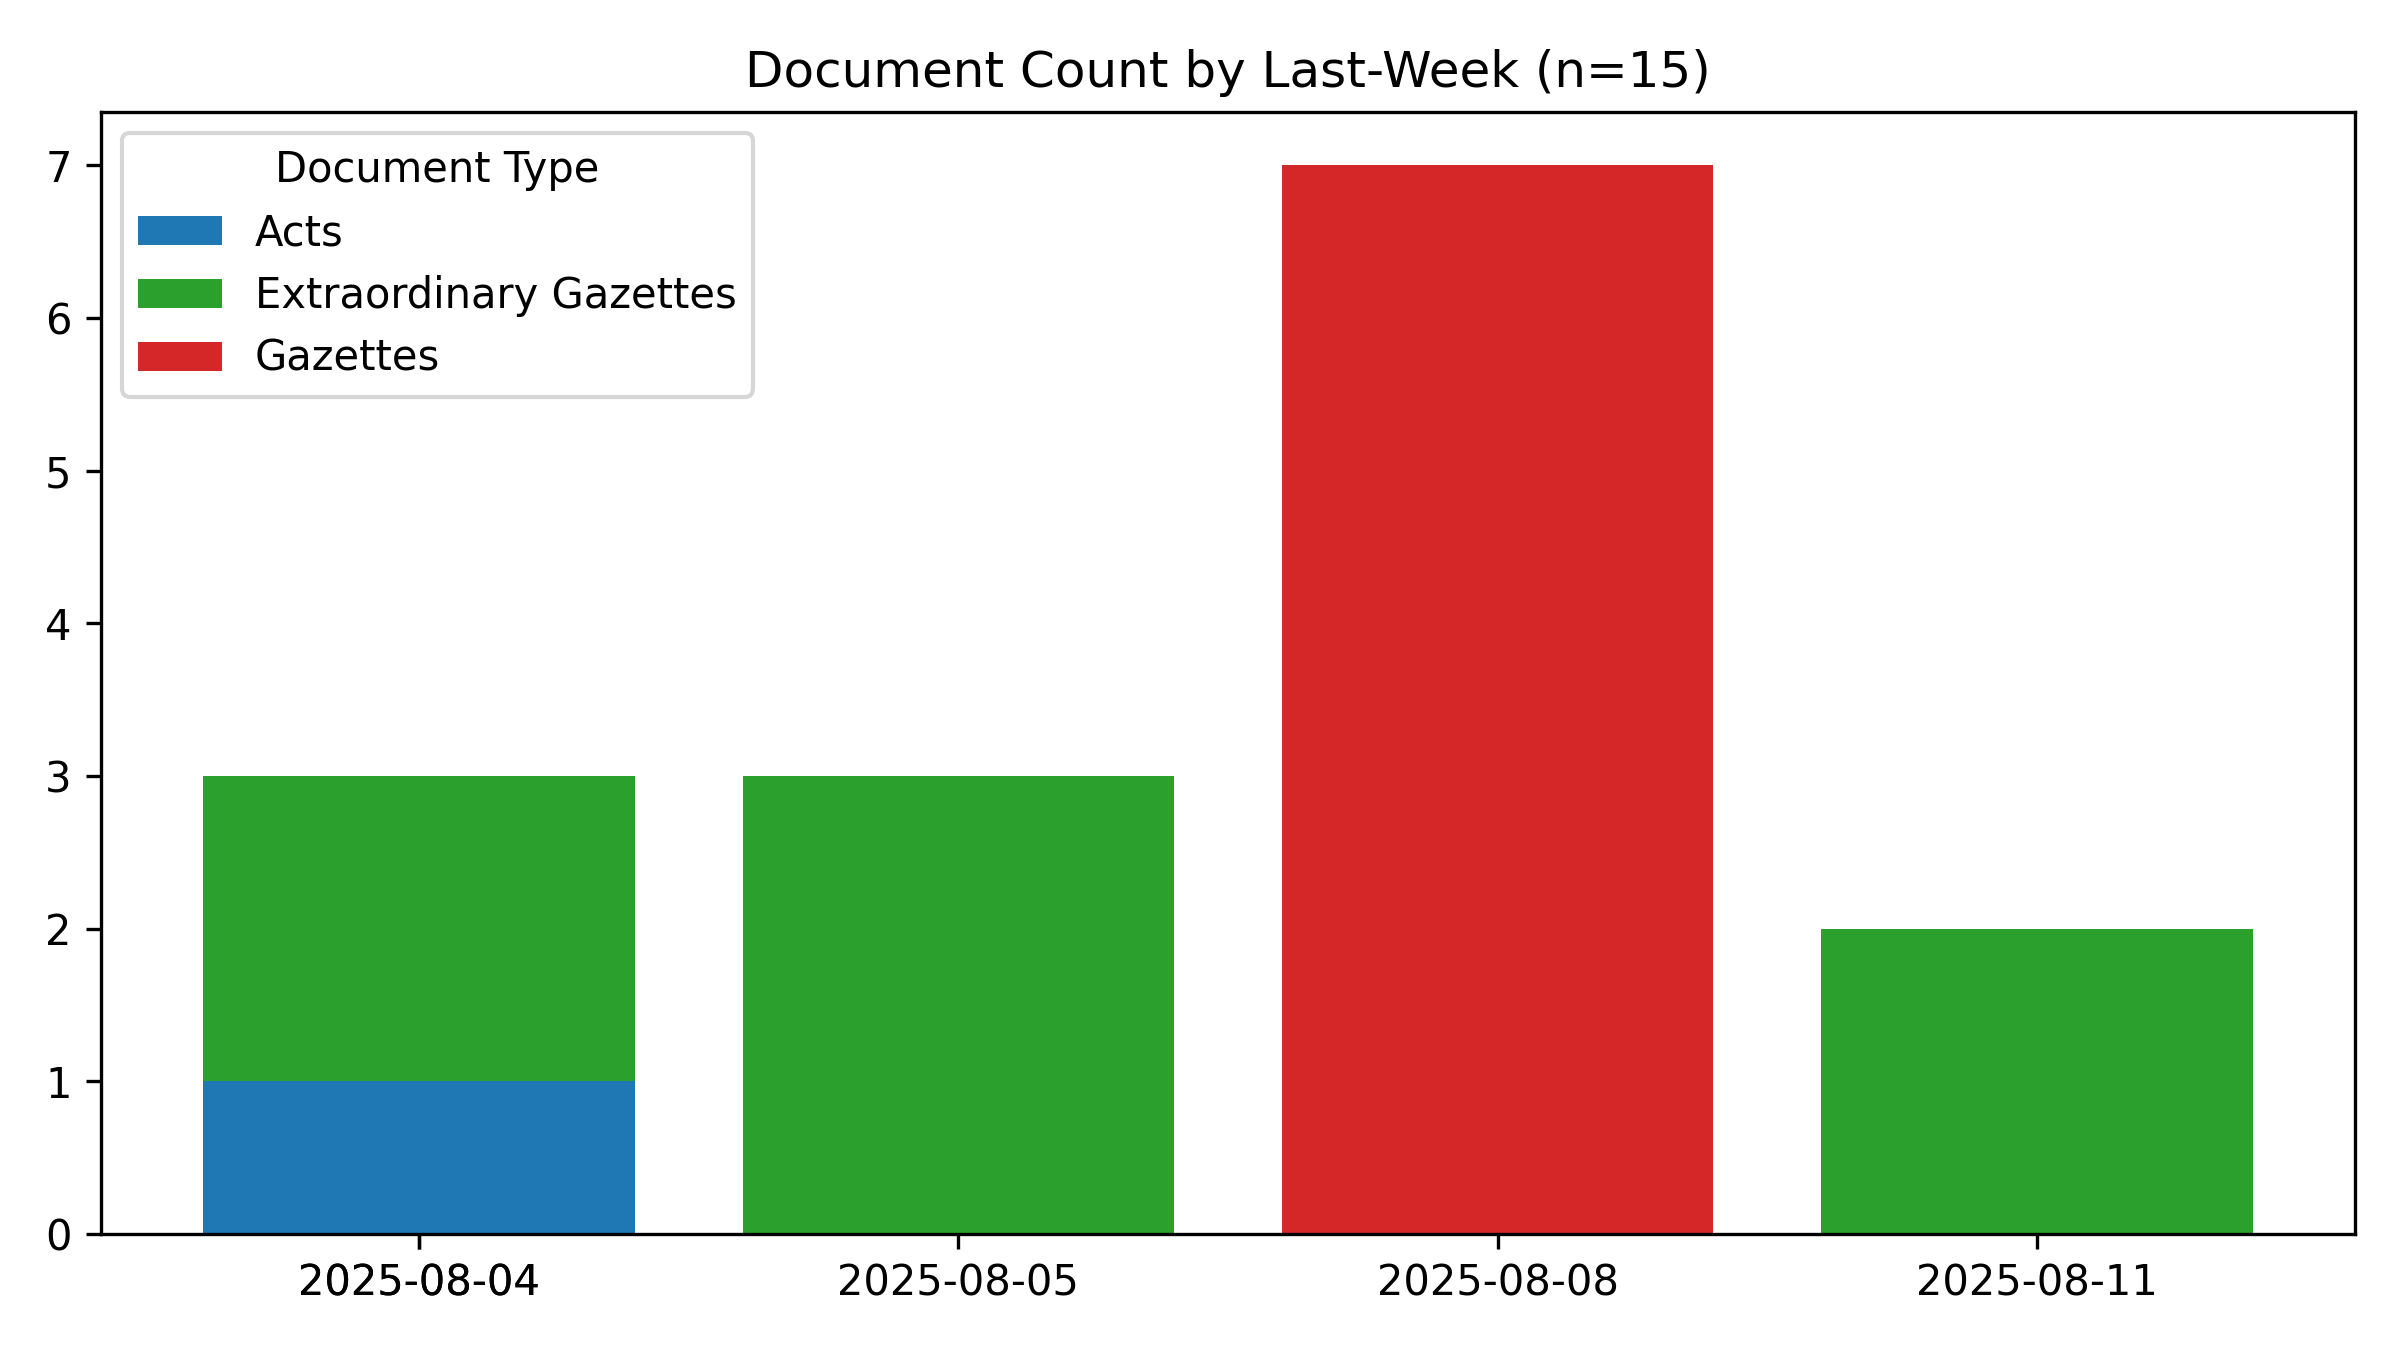
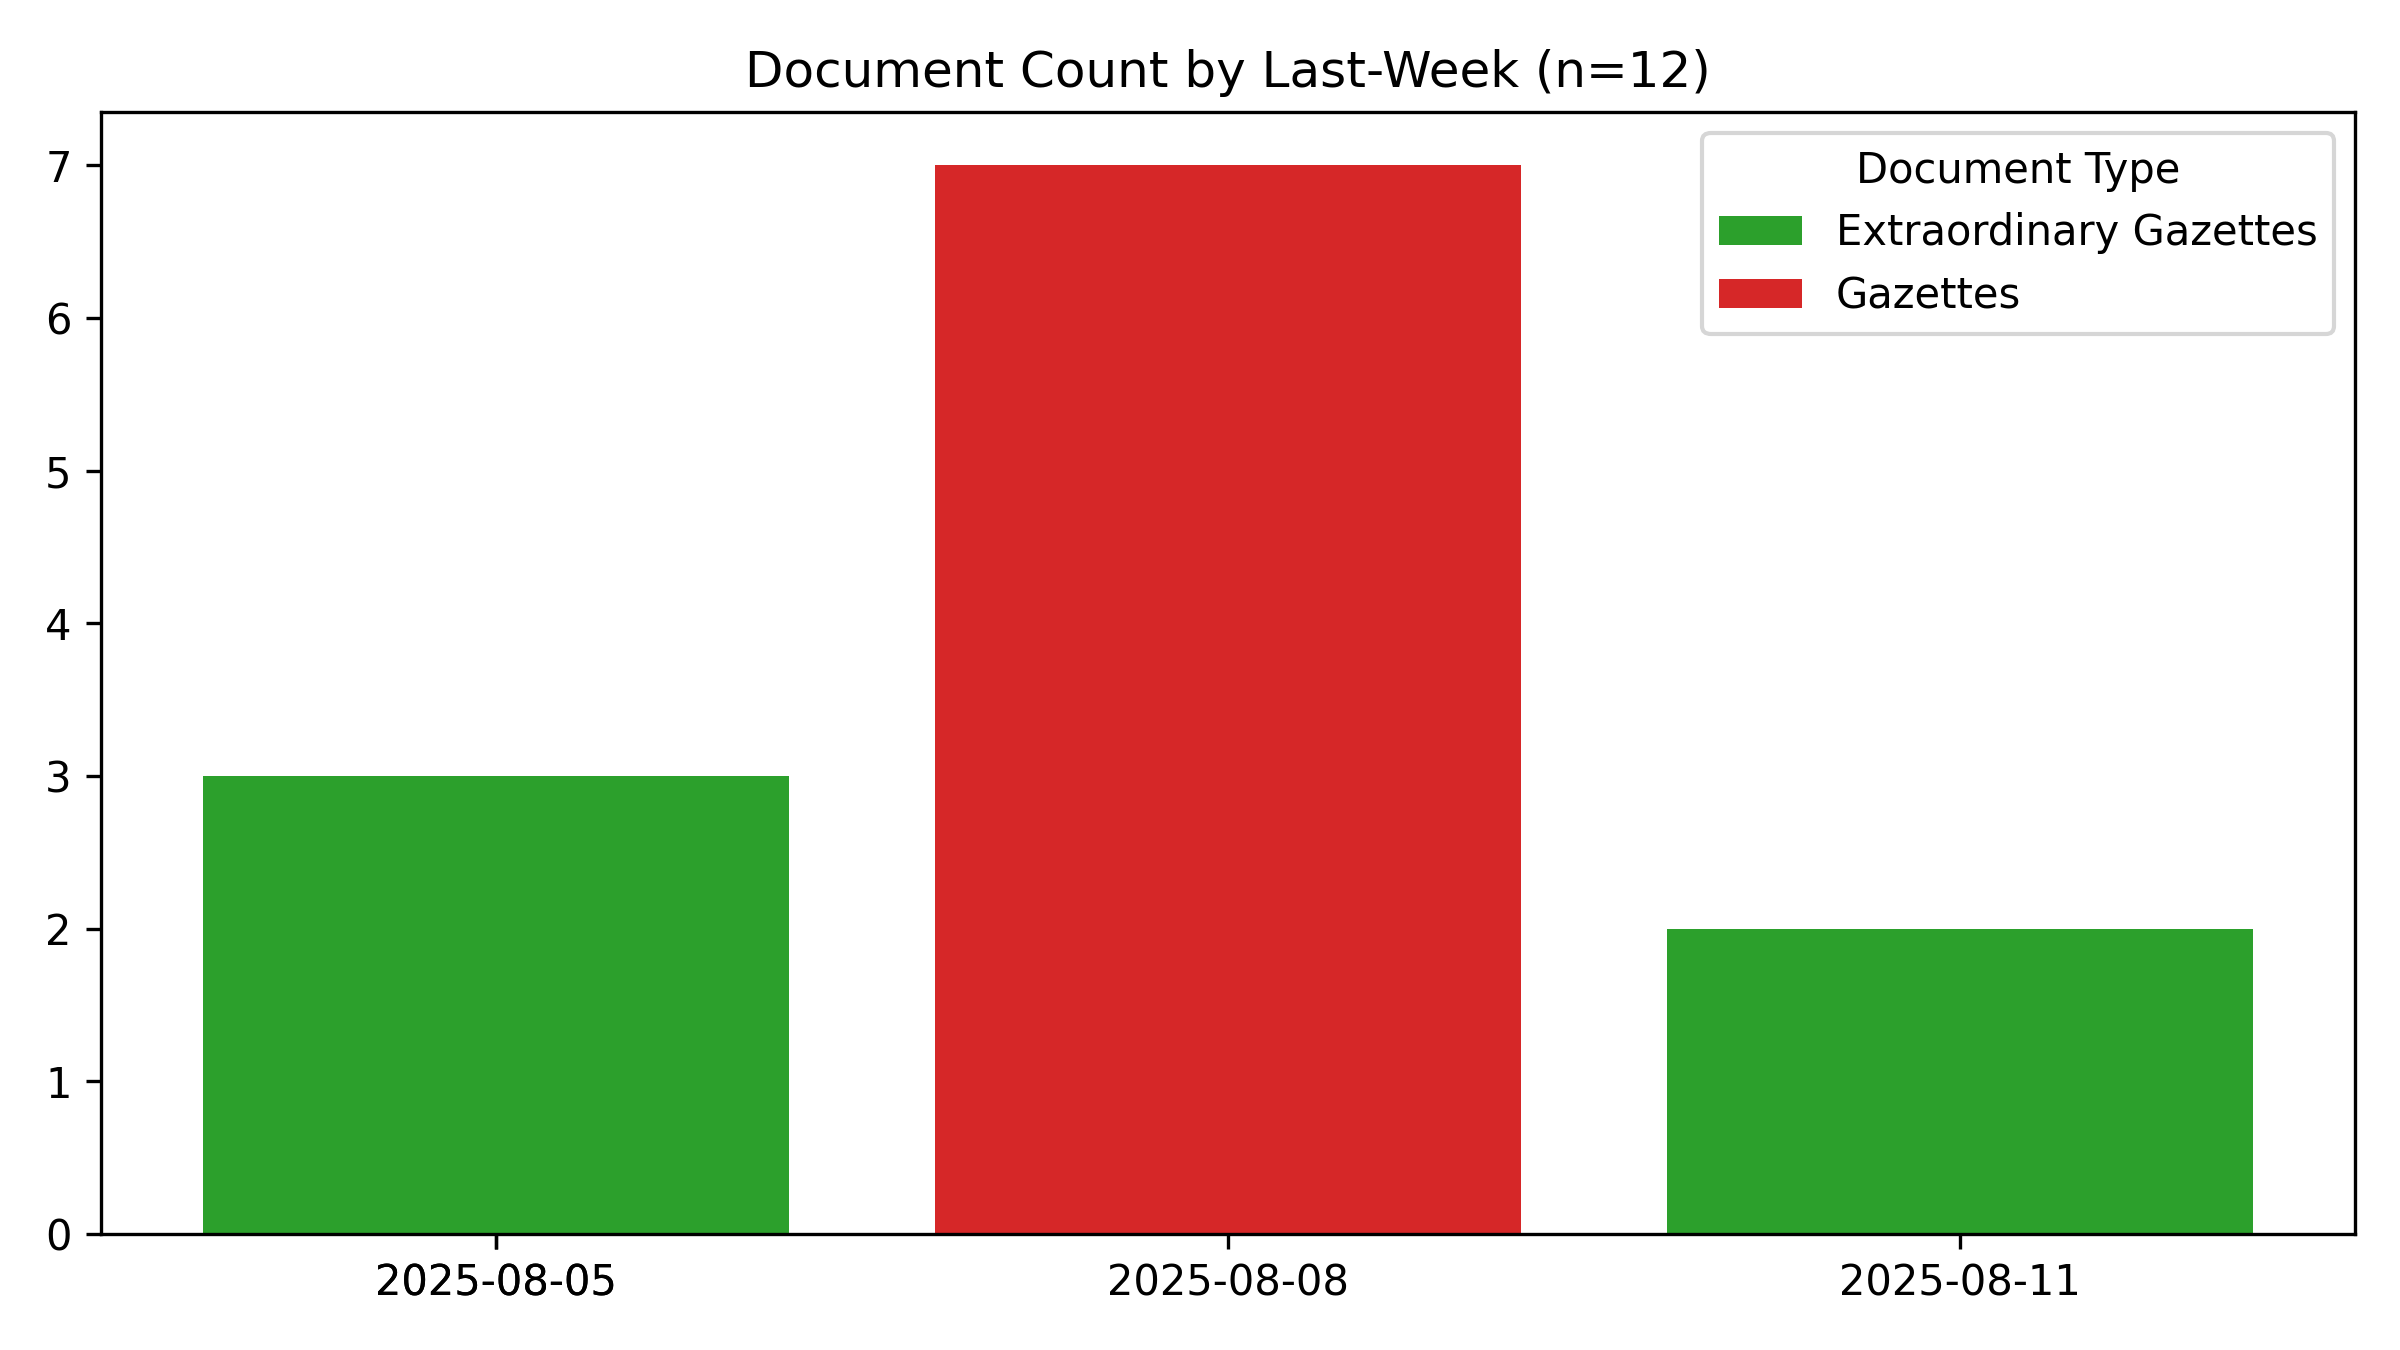
🤖 [build_readme.yml] 2025-08-12-0016

diff --git a/README.md b/README.md
@@ -1,6 +1,6 @@
 # #SriLanka 🇱🇰 - Legal Documents #Dataset
 
-*Last Updated **2025-08-12 05:14:03**.*
+*Last Updated **2025-08-12 05:46:12**.*
 
 **44,266** documents (24.2 MB), from 1981-01-22 to 2025-08-11.
 
@@ -54,7 +54,7 @@ For best results, use a desktop browser.
 
 ## Recent Documents (Published during the last 7 days)
 
-**15** Documents
+**12** Documents
 
 - 🚨 [2025-08-11] [2449/02](https://github.com/nuuuwan/lk_legal_docs_data/tree/data_2020s/data/extra-gazettes/2025/2449-02)
 - 🚨 [2025-08-11] [Sri Lanka Customs - Rates of Exchange with effect from 11.08.2025 to 17.08.2025](https://github.com/nuuuwan/lk_legal_docs_data/tree/data_2020s/data/extra-gazettes/2025/2449-01)
@@ -68,6 +68,3 @@ For best results, use a desktop browser.
 - 🚨 [2025-08-05] [Dept. of Government- Eastern Province Declared Vice Chairman of Lahugala Pradeshiya Sabha](https://github.com/nuuuwan/lk_legal_docs_data/tree/data_2020s/data/extra-gazettes/2025/2448-19)
 - 🚨 [2025-08-05] [2448/18](https://github.com/nuuuwan/lk_legal_docs_data/tree/data_2020s/data/extra-gazettes/2025/2448-18)
 - 🚨 [2025-08-05] [Elections Commission - Notice under Section 66 A(1) (a) Filling of a vacancy in the Office of  Member of the Manmunai Pattu Pradeshiya Sabha.](https://github.com/nuuuwan/lk_legal_docs_data/tree/data_2020s/data/extra-gazettes/2025/2448-17)
-- 🚨 [2025-08-04] [Election Commission - Notice under Section 66A (1) Filling of a Vacancy in the office of members of the Panadura Pradeshiya Sabha](https://github.com/nuuuwan/lk_legal_docs_data/tree/data_2020s/data/extra-gazettes/2025/2448-05)
-- 🚨 [2025-08-04] [Sri Lanka Customs- Rates of Exchange with effect from 04.08.2025 to 10.08.2025](https://github.com/nuuuwan/lk_legal_docs_data/tree/data_2020s/data/extra-gazettes/2025/2448-01)
-- 🏛 [2025-08-04] [Companies (Amendment)](https://github.com/nuuuwan/lk_legal_docs_data/tree/data_2020s/data/acts/2025/12-2025)
